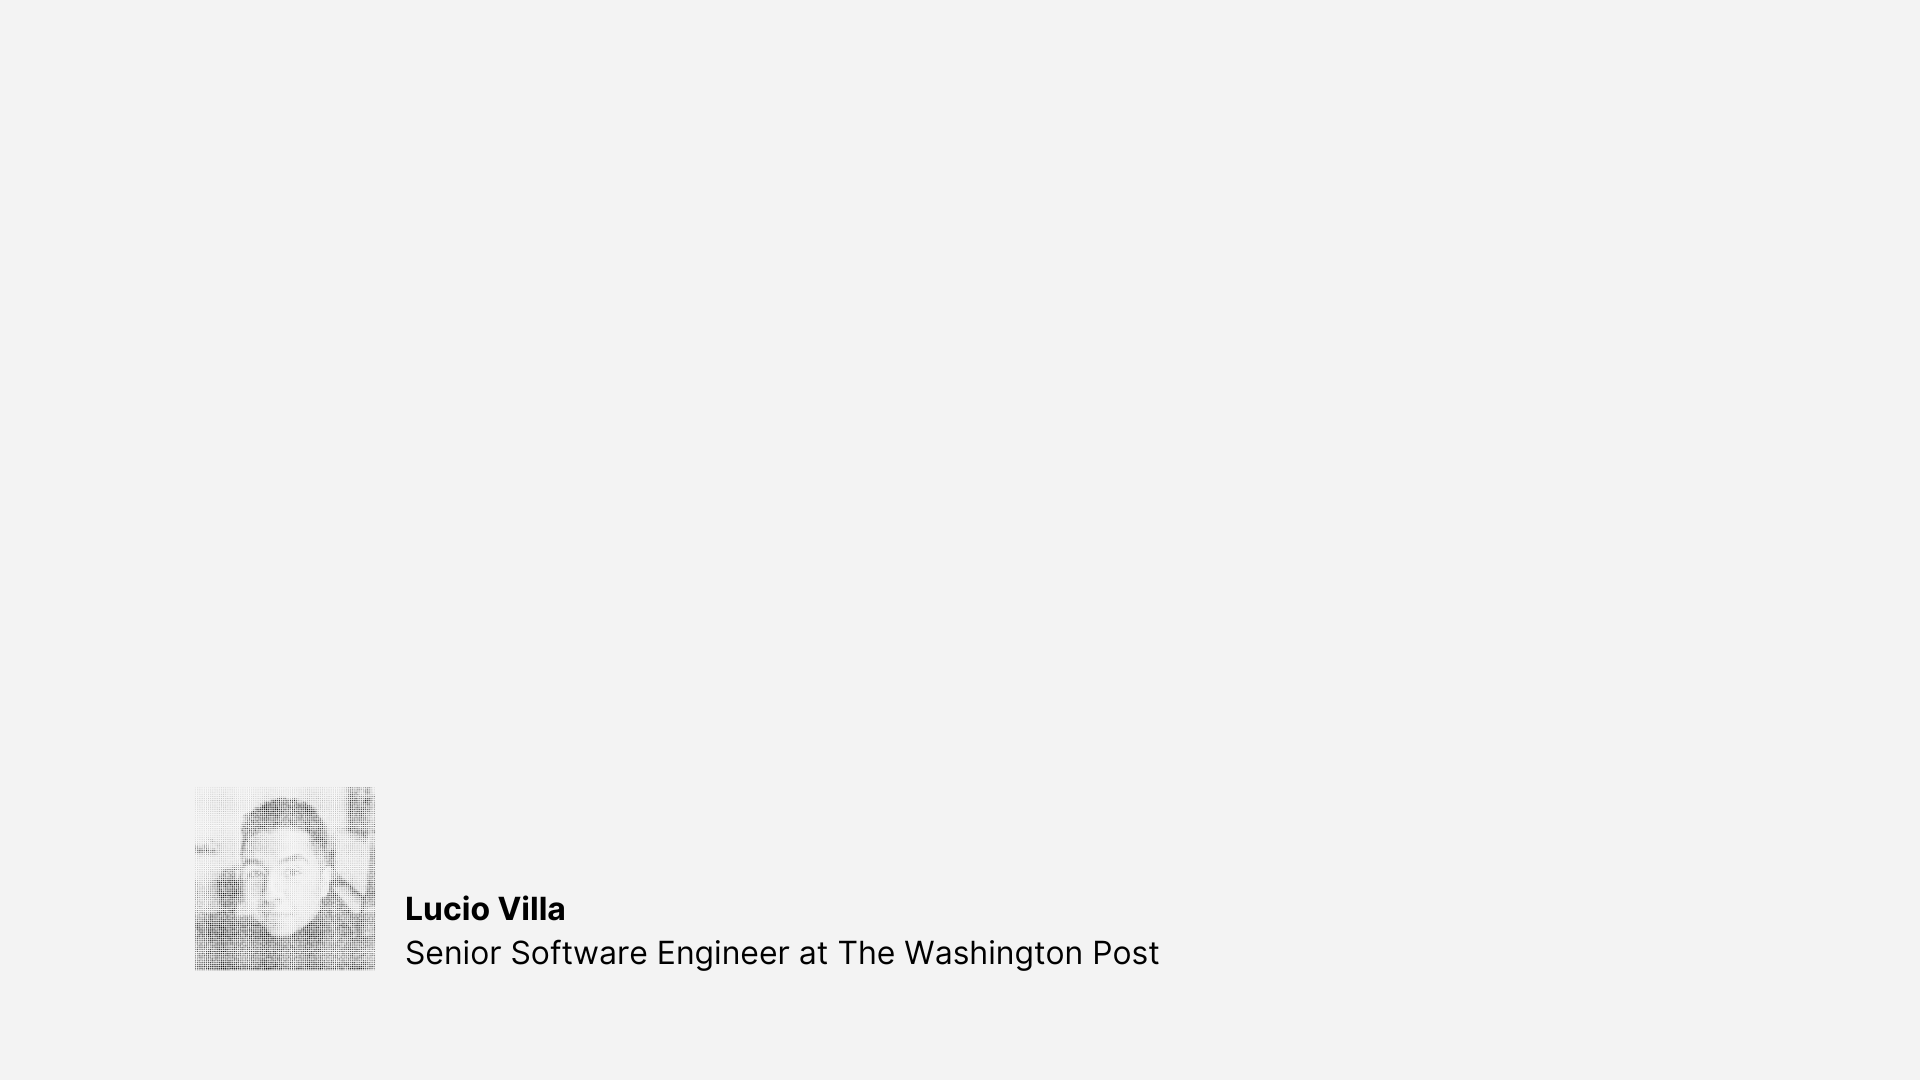
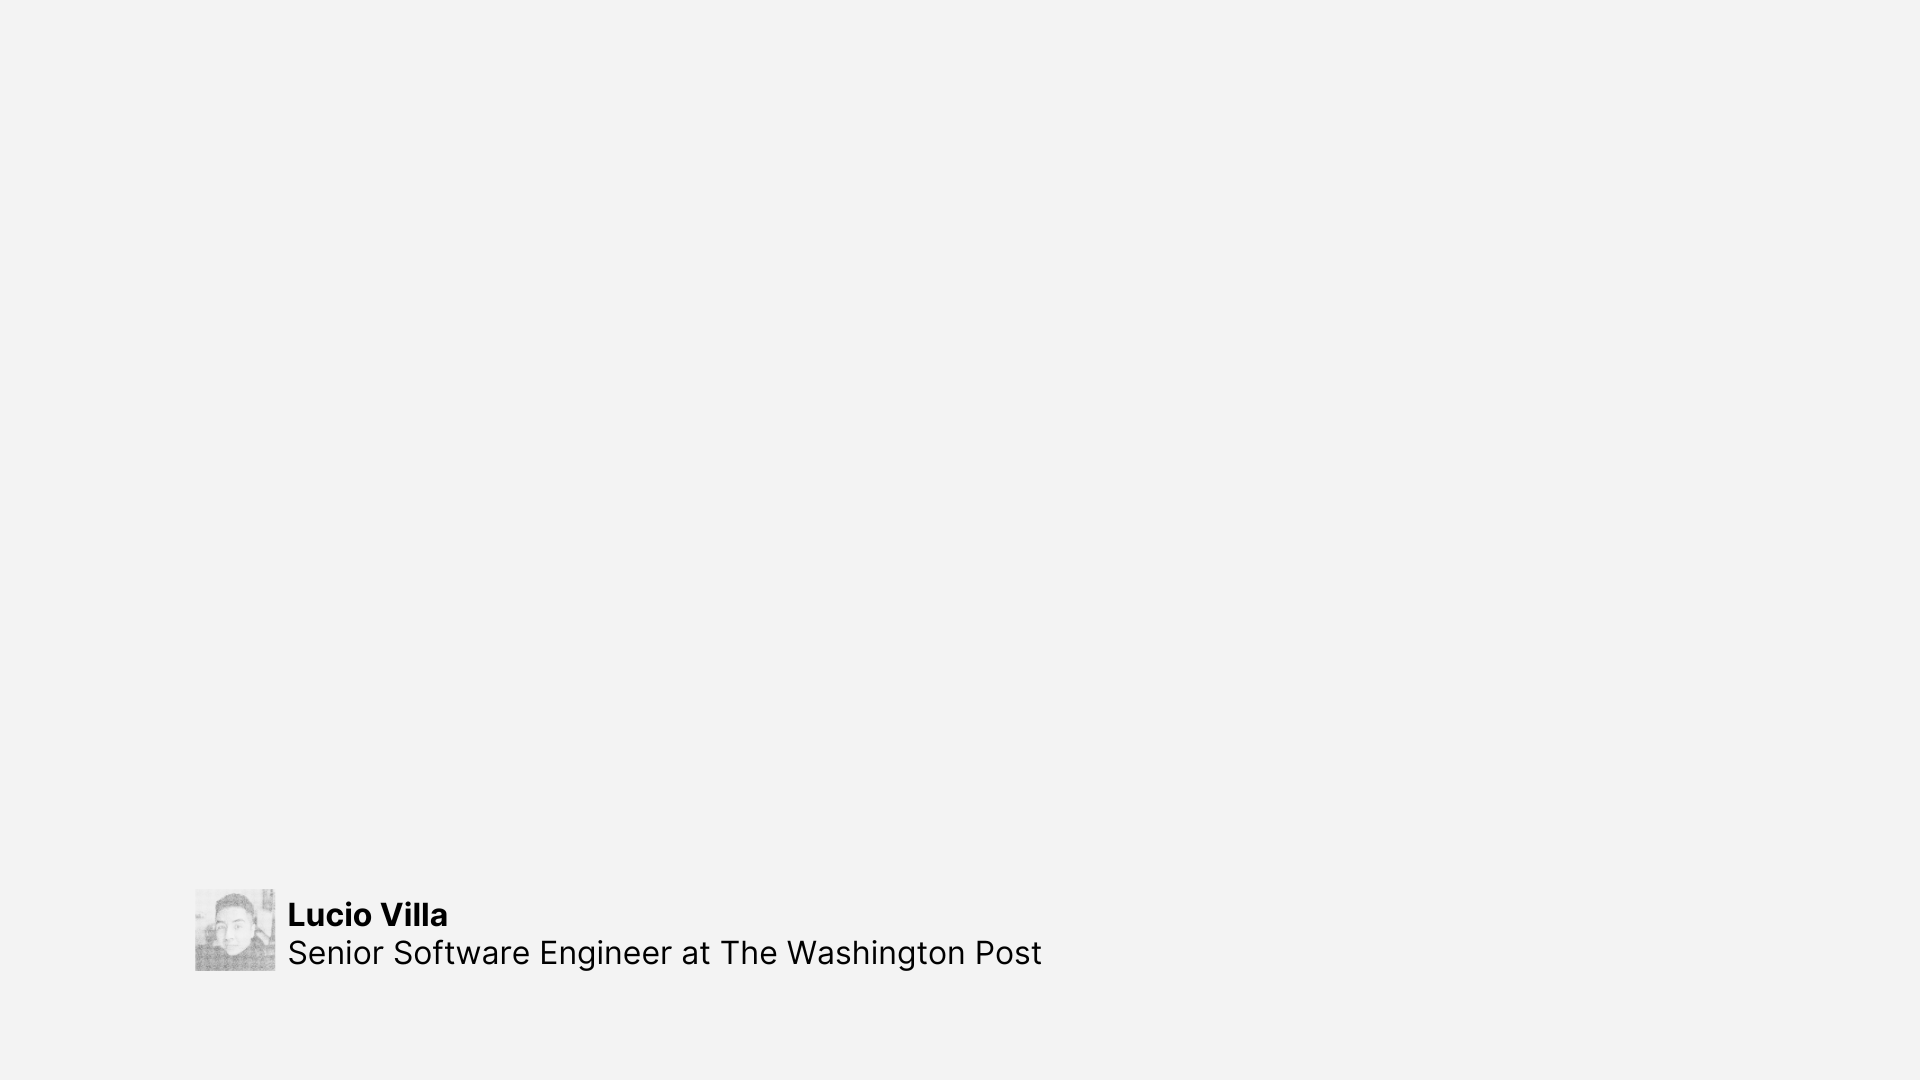
mas updates

Changed region(s): [[0.0938, 0.7333, 0.5938, 0.9167]]

diff --git a/pages/api/social-image.tsx b/pages/api/social-image.tsx
@@ -33,11 +33,12 @@ export default async function handler(req: NextRequest) {
             style={{
               marginLeft: 190,
               marginRight: 190,
+              marginBottom: 150,
               display: 'flex',
-              fontSize: 100,
+              fontSize: 125,
               fontFamily: 'Inter',
               color: 'black',
-              lineHeight: '120px',
+              lineHeight: 1.1,
               whiteSpace: 'pre-wrap'
             }}
           >
